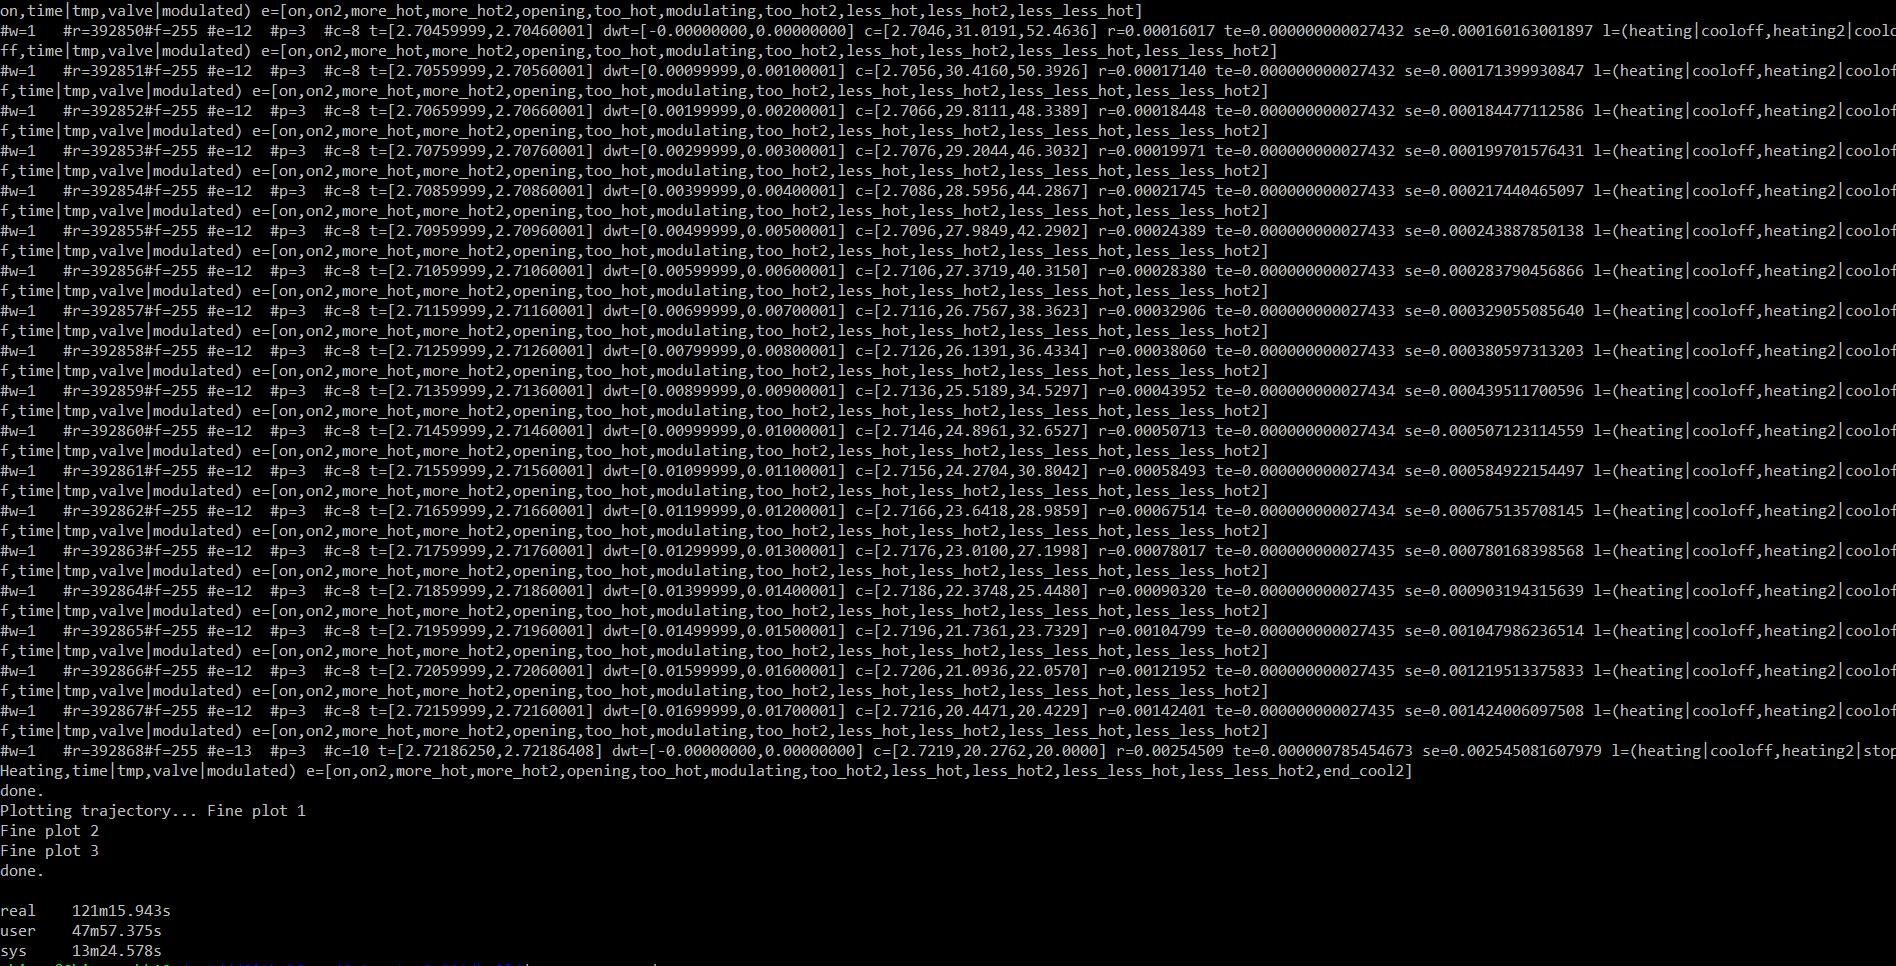
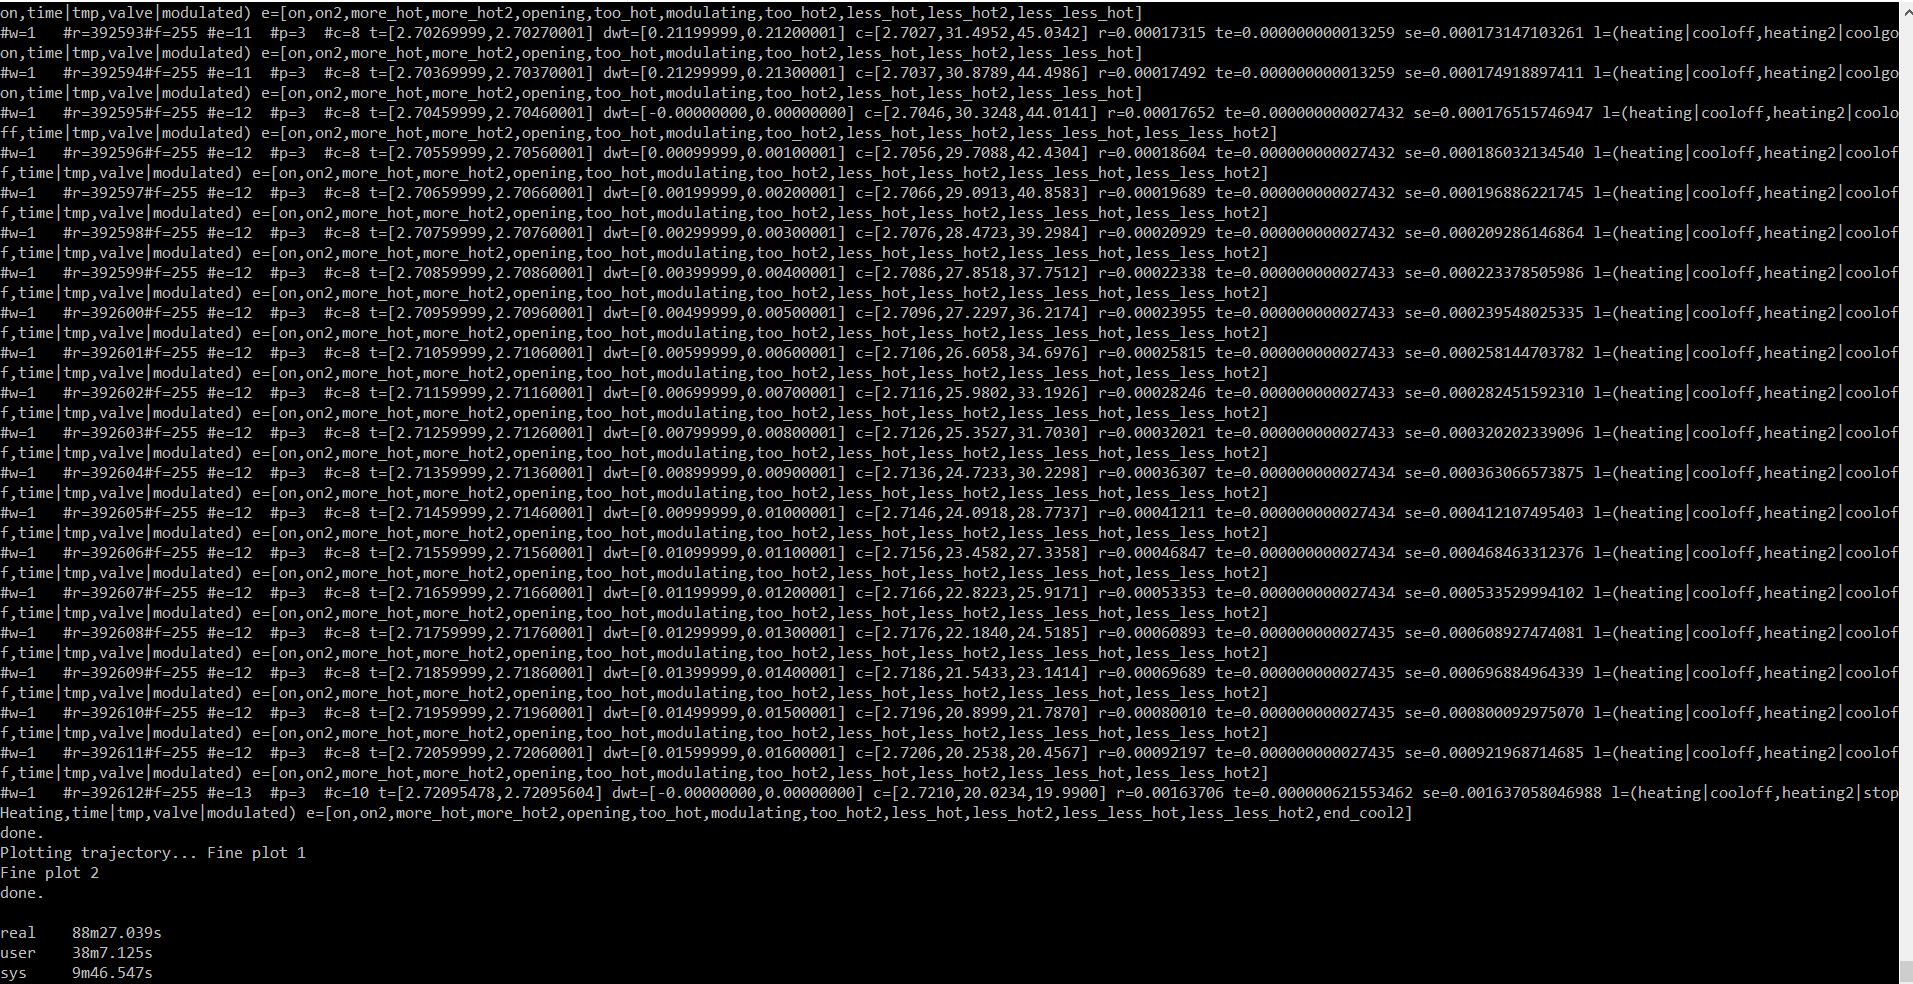
Completo

diff --git a/6.Completo/fire.cpp b/6.Completo/fire.cpp
@@ -87,23 +87,23 @@ Int main(Int argc, const char* argv[])
     HybridSet initial_set({heating|startHeating, time|tmp, valve|closed, heating2|startHeating},{temp==20, t==0,temp2==20});
     // ariadne calcola in secondi mentre la formula in minuti quindi se in
     // 3 min raggiungo 600 gradi 
-    //HybridTime evolution_time(4.8676,5);
-    HybridTime evolution_time(2.7222,100);
+    HybridTime evolution_time(2.7210,100);
+    //HybridTime evolution_time(2.7209,100);
     OrbitType orbit = evolver.orbit(initial_set,evolution_time,Semantics::UPPER);
     std::cout << "done." << std::endl;
 
     std::cout << "Plotting trajectory... "<<std::flush;
     // plot fase riscaldamento stanza
     //Axes2d time_temp_axes(0<=TimeVariable()<=evolution_time.continuous_time(),3482<=temp<=10000);
-    Axes2d time_temp_axes(0<=TimeVariable()<=evolution_time.continuous_time(),20<=temp<=1000);
+    Axes2d time_temp_axes(0<=TimeVariable()<=evolution_time.continuous_time()+1,19<=temp<=1000);
     plot("FireHotRoomTTemp",time_temp_axes, Colour(0.0,0.5,1.0), orbit);
     std::cout << "Fine plot 1" << "\n";
-    Axes2d time_temp2_axes(0<=TimeVariable()<=evolution_time.continuous_time(),20<=temp2<=1000);
+    Axes2d time_temp2_axes(0<=TimeVariable()<=evolution_time.continuous_time()+1,19<=temp2<=1000);
     plot("FireHotRoomTTemp2",time_temp2_axes, Colour(0.0,0.5,1.0), orbit);
     std::cout << "Fine plot 2" << "\n";
-    Axes2d time_valve_axes(0<=TimeVariable()<=evolution_time.continuous_time(),0<=aperture1<=1);
+    Axes2d time_valve_axes(0<=TimeVariable()<=evolution_time.continuous_time()+1,-0.1_decimal<=aperture1<=1.3_decimal);
     plot("FireHotRoomTAperture1",time_valve_axes, Colour(0.0,0.5,1.0), orbit);
-    std::cout << "Fine plot 3" << "\n";
+    
 
 
 

diff --git a/6.Completo/hot_room2.hpp b/6.Completo/hot_room2.hpp
@@ -33,18 +33,18 @@ inline HybridAutomaton create_heating_system2()
     RealConstant d("d",0.20_decimal); //costante 20s per end heating
     RealConstant e("e",1.3146_decimal); // costante per coolon al posto del tempo t
     RealConstant f("f",1.6046_decimal); //costante per coolgoon
-    RealConstant g("g",520); // costante per coolon 
+    RealConstant g("g",500); // costante per coolon 
     RealConstant timef("timef",1.3046_decimal); // tempo in cui si raggiungono 600 incendio
-    RealConstant l("l",470); // costante per coolgoon e cooloff
+    RealConstant l("l",490); // costante per coolgoon e cooloff
     RealConstant h("h",2.7_decimal); // costante per coolgoon
-    RealConstant m("m",20); // costante per stopHeating
+    RealConstant m("m",19.99_decimal); // costante per stopHeating
     RealConstant p("p",0.50_decimal); // costante per coolgoon
     RealConstant q("q",0.90_decimal); // costante per cooloff
     RealConstant r("r",10);
     //RealConstant u("u",1.30_decimal);
     //RealConstant u("u",2.00_decimal);
     RealConstant u("u",1.30_decimal);
-    RealConstant v("v",2.5_decimal); // tempo di cooloff
+    RealConstant v("v",1.90_decimal); // tempo di cooloff
     RealConstant tempf("tempf",600);
     RealConstant ts("ts",0.0005_decimal); 
     RealConstant timecooloff("timecooloff",2.1046_decimal); //tempo per cooloff al posto di t

diff --git a/6.Completo/hot_room.hpp b/6.Completo/hot_room.hpp
@@ -35,7 +35,7 @@ inline HybridAutomaton create_heating_system()
     RealConstant timef("timef",1.0907_decimal); // tempo in cui si raggiungono 600 incendio
     RealConstant l("l",330); // costante per coolgoon e cooloff
     RealConstant h("h",2.1_decimal); // costante per coolgoon
-    RealConstant m("m",20); // costante per stopHeating
+    RealConstant m("m",19.99_decimal); // costante per stopHeating
     RealConstant p("p",0.50_decimal); // costante per coolgoon
     RealConstant q("q",0.90_decimal); // costante per cooloff
     RealConstant r("r",10);

diff --git a/6.Completo/valve-proportional-urgent.hpp b/6.Completo/valve-proportional-urgent.hpp
@@ -58,7 +58,8 @@ inline AtomicHybridAutomaton getValve()
     // Define the transitions
     valve_automaton.new_transition(closed,opening,opened,temp>=600,EventKind::URGENT);
     valve_automaton.new_transition(opened,modulating,modulated,temp2>=600,EventKind::URGENT);
-    valve_automaton.new_transition(modulated,finishing,closed,temp<=20,EventKind::URGENT);
+    valve_automaton.new_transition(modulated,finishing,closed,temp<=19.99_decimal,EventKind::URGENT);
+    
 
     return valve_automaton;
 }
